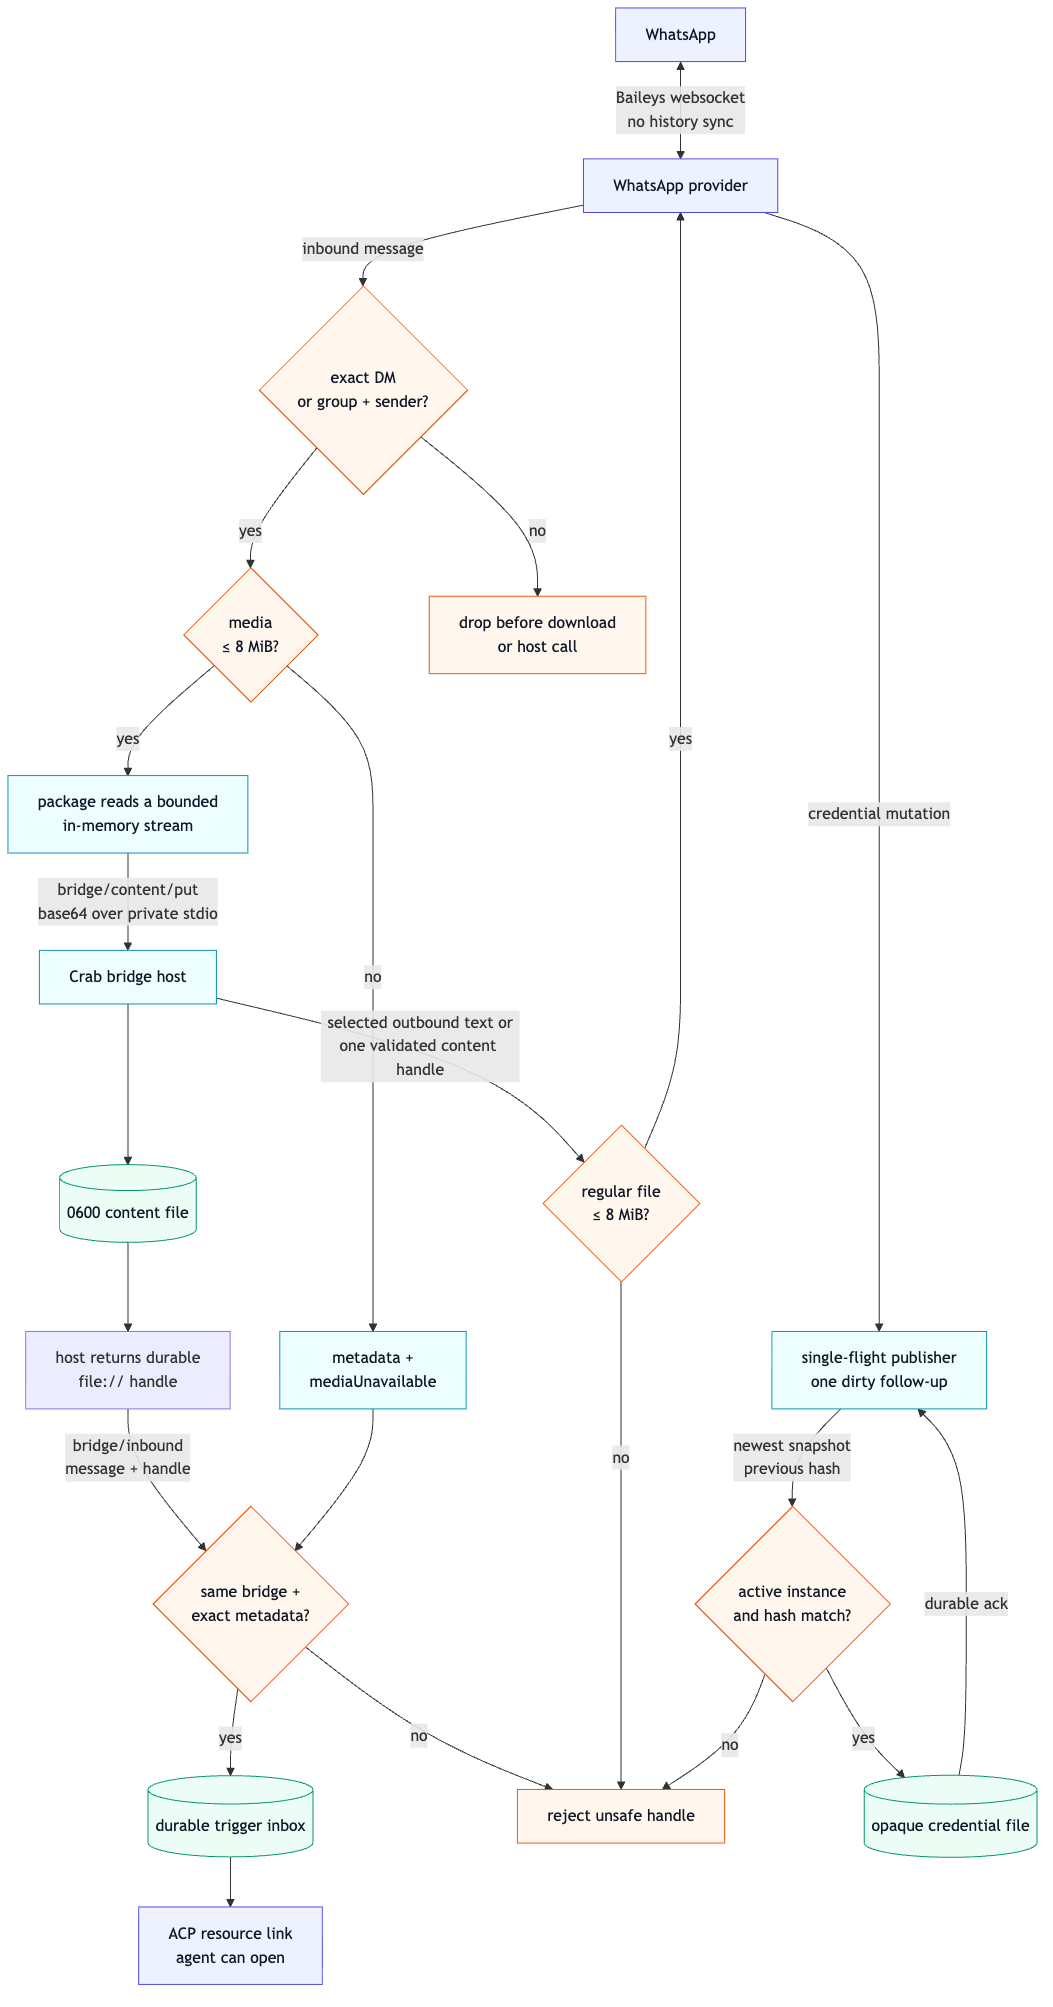
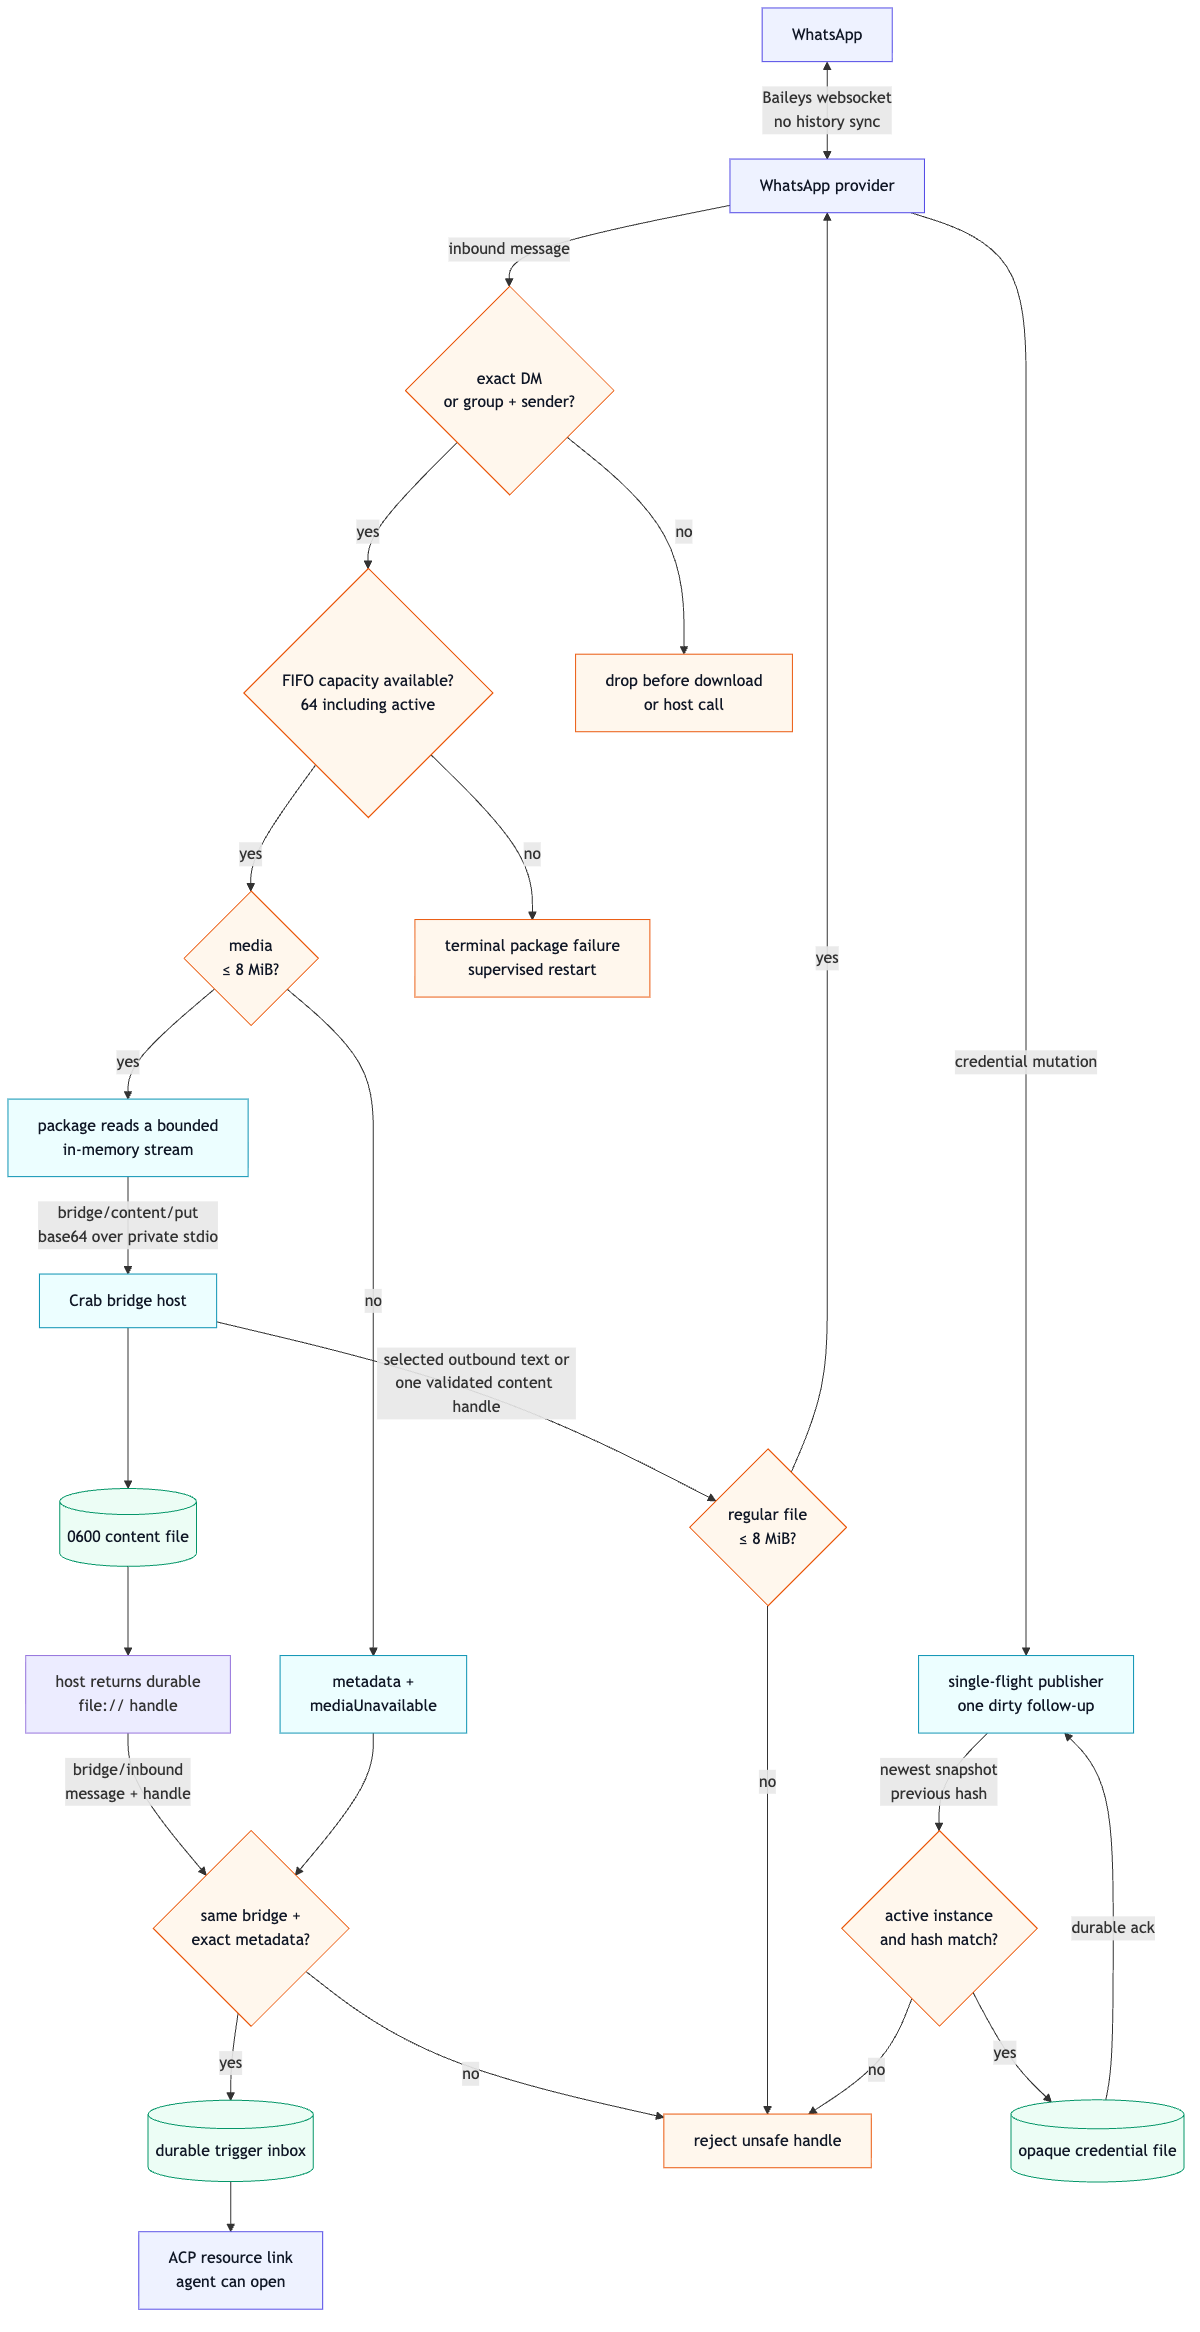
fix(v2): bound WhatsApp inbound persistence (#356)
Replace the unbounded WhatsApp inbound Promise chain with a 64-message FIFO persistence pump. Overflow and exhausted durable-host retries fail the package instance once for supervised restart.

Closes #355.

diff --git a/v2/bridges/whatsapp/src/bridge-service.js b/v2/bridges/whatsapp/src/bridge-service.js
@@ -13,6 +13,7 @@ import { outboundContent } from './outbound-media.js';
 
 const PROTOCOL_VERSION = 2;
 const DEFAULT_AUTH_TIMEOUT_MS = 120_000;
+const MAX_PENDING_INBOUND_MESSAGES = 64;
 
 function object(value) {
   return value !== null && typeof value === 'object' && !Array.isArray(value);
@@ -87,6 +88,68 @@ export class CredentialPublisher {
   }
 }
 
+export class InboundPublisher {
+  constructor({ persist, onFailure, capacity = MAX_PENDING_INBOUND_MESSAGES }) {
+    if (!Number.isSafeInteger(capacity) || capacity < 1) {
+      throw new Error('invalid inbound persistence capacity');
+    }
+    this.persist = persist;
+    this.onFailure = onFailure;
+    this.capacity = capacity;
+    this.queue = [];
+    this.running = null;
+    this.failure = null;
+  }
+
+  enqueue(items) {
+    if (this.failure) return this.running ?? Promise.reject(this.failure);
+    if (!Array.isArray(items) || items.length === 0) {
+      return this.running ?? Promise.resolve();
+    }
+    if (items.length > this.remainingCapacity()) {
+      this.#fail(new Error('inbound persistence backlog exceeded'));
+      return this.running ?? Promise.reject(this.failure);
+    }
+    this.queue.push(...items);
+    if (!this.running) {
+      this.running = this.#drain().finally(() => {
+        this.running = null;
+      });
+    }
+    return this.running;
+  }
+
+  remainingCapacity() {
+    if (this.failure) return 0;
+    const occupied = this.queue.length + (this.running ? 1 : 0);
+    return Math.max(0, this.capacity - occupied);
+  }
+
+  async #drain() {
+    try {
+      while (!this.failure && this.queue.length > 0) {
+        const item = this.queue.shift();
+        await this.persist(item.inbound, item.rawMessage);
+      }
+      if (this.failure) throw this.failure;
+    } catch (error) {
+      this.#fail(error);
+      throw this.failure;
+    }
+  }
+
+  #fail(error) {
+    if (this.failure) return;
+    this.failure = error instanceof Error ? error : new Error('inbound persistence failed');
+    this.queue.length = 0;
+    try {
+      this.onFailure(this.failure);
+    } catch {
+      // Persistence failure remains the canonical rejection even if shutdown throws.
+    }
+  }
+}
+
 export class WhatsAppBridgeService {
   constructor({
     socketFactory,
@@ -99,6 +162,7 @@ export class WhatsAppBridgeService {
     callHost,
     onFatal,
     authTimeoutMs = DEFAULT_AUTH_TIMEOUT_MS,
+    inboundCapacity = MAX_PENDING_INBOUND_MESSAGES,
     now = Date.now,
   }) {
     this.socketFactory = socketFactory;
@@ -127,7 +191,11 @@ export class WhatsAppBridgeService {
     this.reconnectAttempts = 0;
     this.credentialRejected = false;
     this.shuttingDown = false;
-    this.inboundTail = Promise.resolve();
+    this.inboundPublisher = new InboundPublisher({
+      capacity: inboundCapacity,
+      persist: (inbound, rawMessage) => this.#persistInbound(inbound, rawMessage),
+      onFailure: (error) => this.onFatal(error),
+    });
   }
 
   async initialize(params) {
@@ -371,6 +439,8 @@ export class WhatsAppBridgeService {
 
   #messagesUpsert(generation, event) {
     if (generation !== this.socketGeneration || event.type !== 'notify') return;
+    const accepted = [];
+    const remainingCapacity = this.inboundPublisher.remainingCapacity();
     for (const message of event.messages ?? []) {
       if (!inboundAllowed(message, this.inboundPolicy)) continue;
       const inbound = normalizeInbound(message, {
@@ -379,10 +449,10 @@ export class WhatsAppBridgeService {
         now: this.now,
       });
       if (!inbound) continue;
-      this.inboundTail = this.inboundTail
-        .then(() => this.#persistInbound(inbound, message))
-        .catch((error) => this.onFatal(error));
+      accepted.push({ inbound, rawMessage: message });
+      if (accepted.length > remainingCapacity) break;
     }
+    void this.inboundPublisher.enqueue(accepted).catch(() => {});
   }
 
   async #persistInbound(inbound, rawMessage) {

diff --git a/v2/bridges/whatsapp/test/bridge-service.test.js b/v2/bridges/whatsapp/test/bridge-service.test.js
@@ -2,7 +2,11 @@ import assert from 'node:assert/strict';
 import { createHash } from 'node:crypto';
 import test from 'node:test';
 
-import { CredentialPublisher, WhatsAppBridgeService } from '../src/bridge-service.js';
+import {
+  CredentialPublisher,
+  InboundPublisher,
+  WhatsAppBridgeService,
+} from '../src/bridge-service.js';
 import { credentialFingerprint } from '../src/canonical-json.js';
 import { credential, dependencies, flush } from './helpers.js';
 
@@ -86,6 +90,68 @@ test('credential persistence failure is terminal for the package instance', asyn
   await assert.rejects(publisher.changed(), failure);
   assert.equal(attempts, 1, 'a stale fingerprint is never retried in-process');
   assert.deepEqual(failures, [failure]);
+});
+
+test('inbound bursts share one bounded FIFO persistence drain', async () => {
+  let releaseFirst;
+  const firstCall = new Promise((resolve) => { releaseFirst = resolve; });
+  const persisted = [];
+  const publisher = new InboundPublisher({
+    capacity: 3,
+    persist: async (inbound, rawMessage) => {
+      persisted.push([inbound.externalEventId, rawMessage.key.id]);
+      if (persisted.length === 1) await firstCall;
+    },
+    onFailure: (error) => { throw error; },
+  });
+  const item = (id) => ({
+    inbound: { externalEventId: id },
+    rawMessage: { key: { id } },
+  });
+
+  const first = publisher.enqueue([item('one')]);
+  assert.equal(publisher.remainingCapacity(), 2);
+  const queued = publisher.enqueue([item('two'), item('three')]);
+  assert.equal(queued, first, 'all admitted messages share one drain promise');
+  assert.equal(publisher.remainingCapacity(), 0);
+  assert.deepEqual(persisted, [['one', 'one']], 'only one persistence call is active');
+
+  releaseFirst();
+  await first;
+  assert.deepEqual(persisted, [
+    ['one', 'one'],
+    ['two', 'two'],
+    ['three', 'three'],
+  ]);
+});
+
+test('inbound backlog overflow fails the package instance once and drops queued work', async () => {
+  let releaseFirst;
+  const firstCall = new Promise((resolve) => { releaseFirst = resolve; });
+  const persisted = [];
+  const failures = [];
+  const publisher = new InboundPublisher({
+    capacity: 2,
+    persist: async (inbound) => {
+      persisted.push(inbound.externalEventId);
+      if (persisted.length === 1) await firstCall;
+    },
+    onFailure: (error) => failures.push(error),
+  });
+  const item = (id) => ({ inbound: { externalEventId: id }, rawMessage: {} });
+
+  const running = publisher.enqueue([item('one')]);
+  assert.equal(publisher.enqueue([item('two')]), running);
+  assert.equal(publisher.enqueue([item('overflow')]), running);
+  assert.equal(failures.length, 1);
+  assert.match(failures[0].message, /backlog exceeded/);
+
+  const rejected = assert.rejects(running, failures[0]);
+  releaseFirst();
+  await rejected;
+  await assert.rejects(publisher.enqueue([item('later')]), failures[0]);
+  assert.deepEqual(persisted, ['one']);
+  assert.equal(failures.length, 1, 'supervision receives one terminal failure');
 });
 
 test('restores a committed snapshot and publishes ordered key rotations', async () => {

diff --git a/v2/bridges/whatsapp/README.md b/v2/bridges/whatsapp/README.md
@@ -52,6 +52,14 @@ only the originating bridge can attach it with the exact stored metadata. Oversi
 unstorable downloads preserve their message metadata with a truthful `mediaUnavailable` reason.
 Full history is never synchronized.
 
+![Bounded inbound persistence](inbound-persistence-flow.png)
+
+Authorized bursts enter one FIFO persistence pump. It admits at most 64 messages including the
+active item, keeps exactly one media/storage/trigger transaction in flight, and acknowledges each
+admitted message in arrival order. Backlog overflow or exhausted durable-host retries is terminal:
+the package clears queued work and asks Crab supervision to restart it instead of retaining an
+unbounded in-memory chain.
+
 ## Credential safety
 
 ![Coalesced credential persistence](credential-persistence-flow.png)
